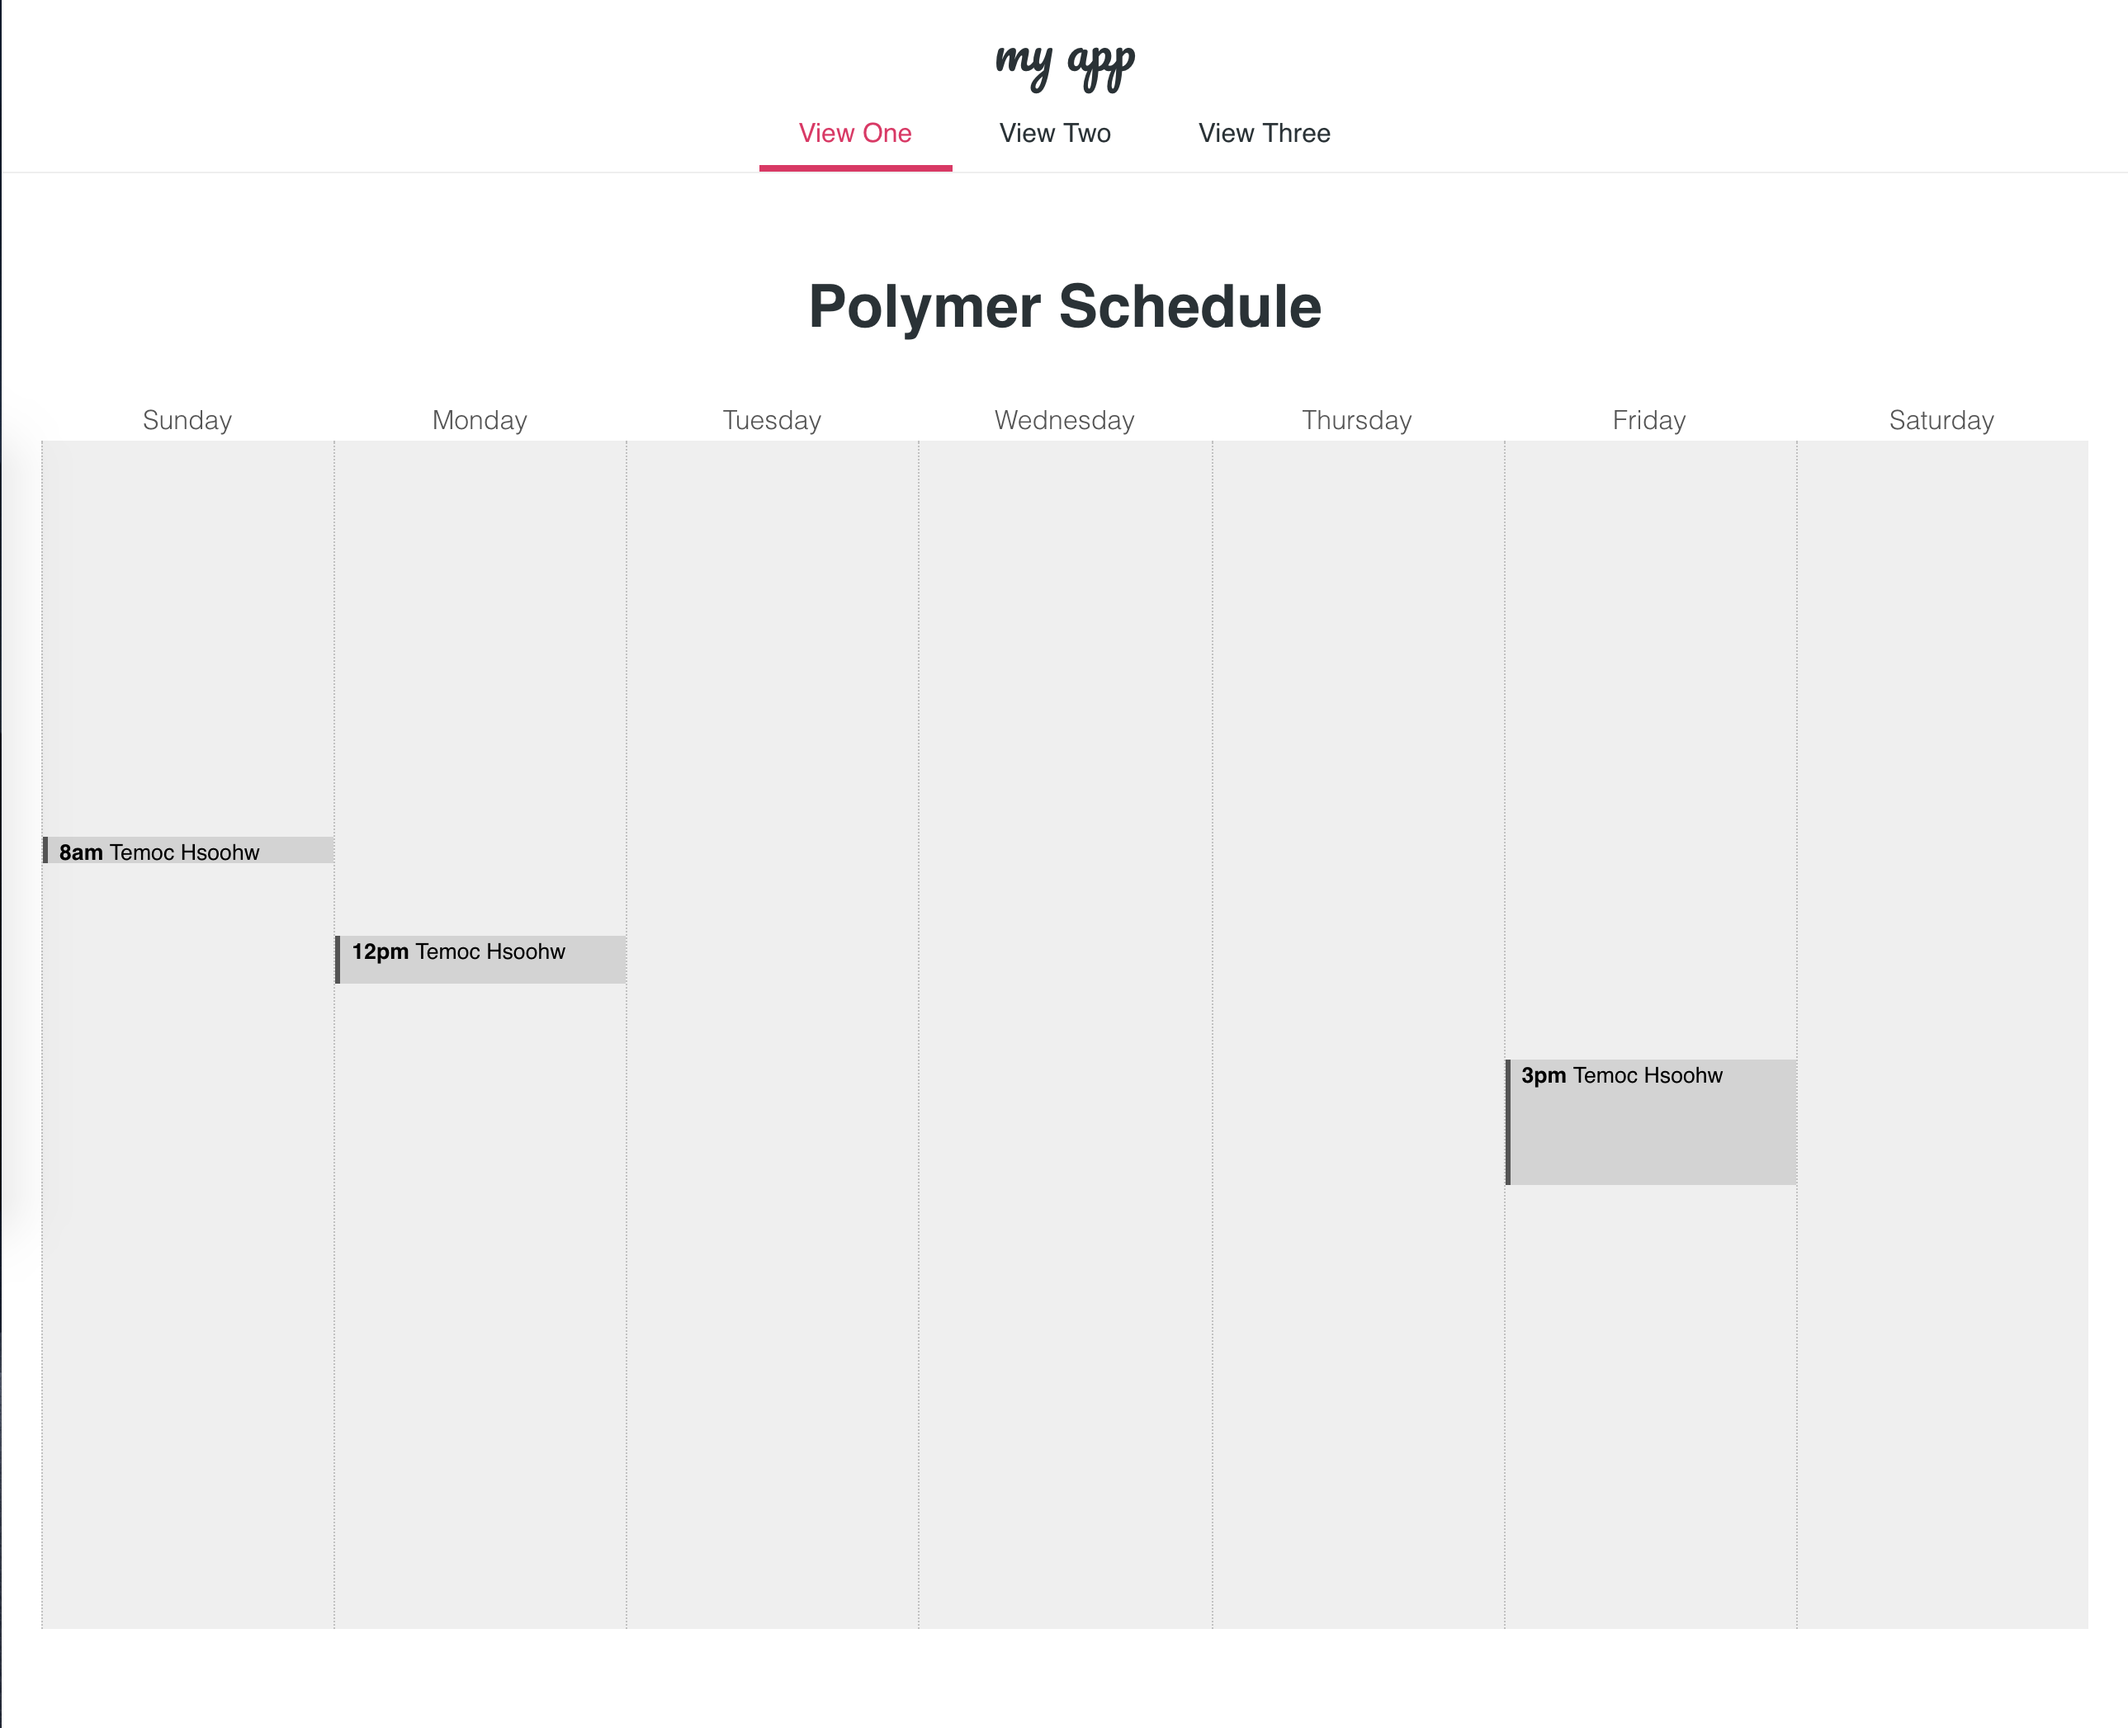
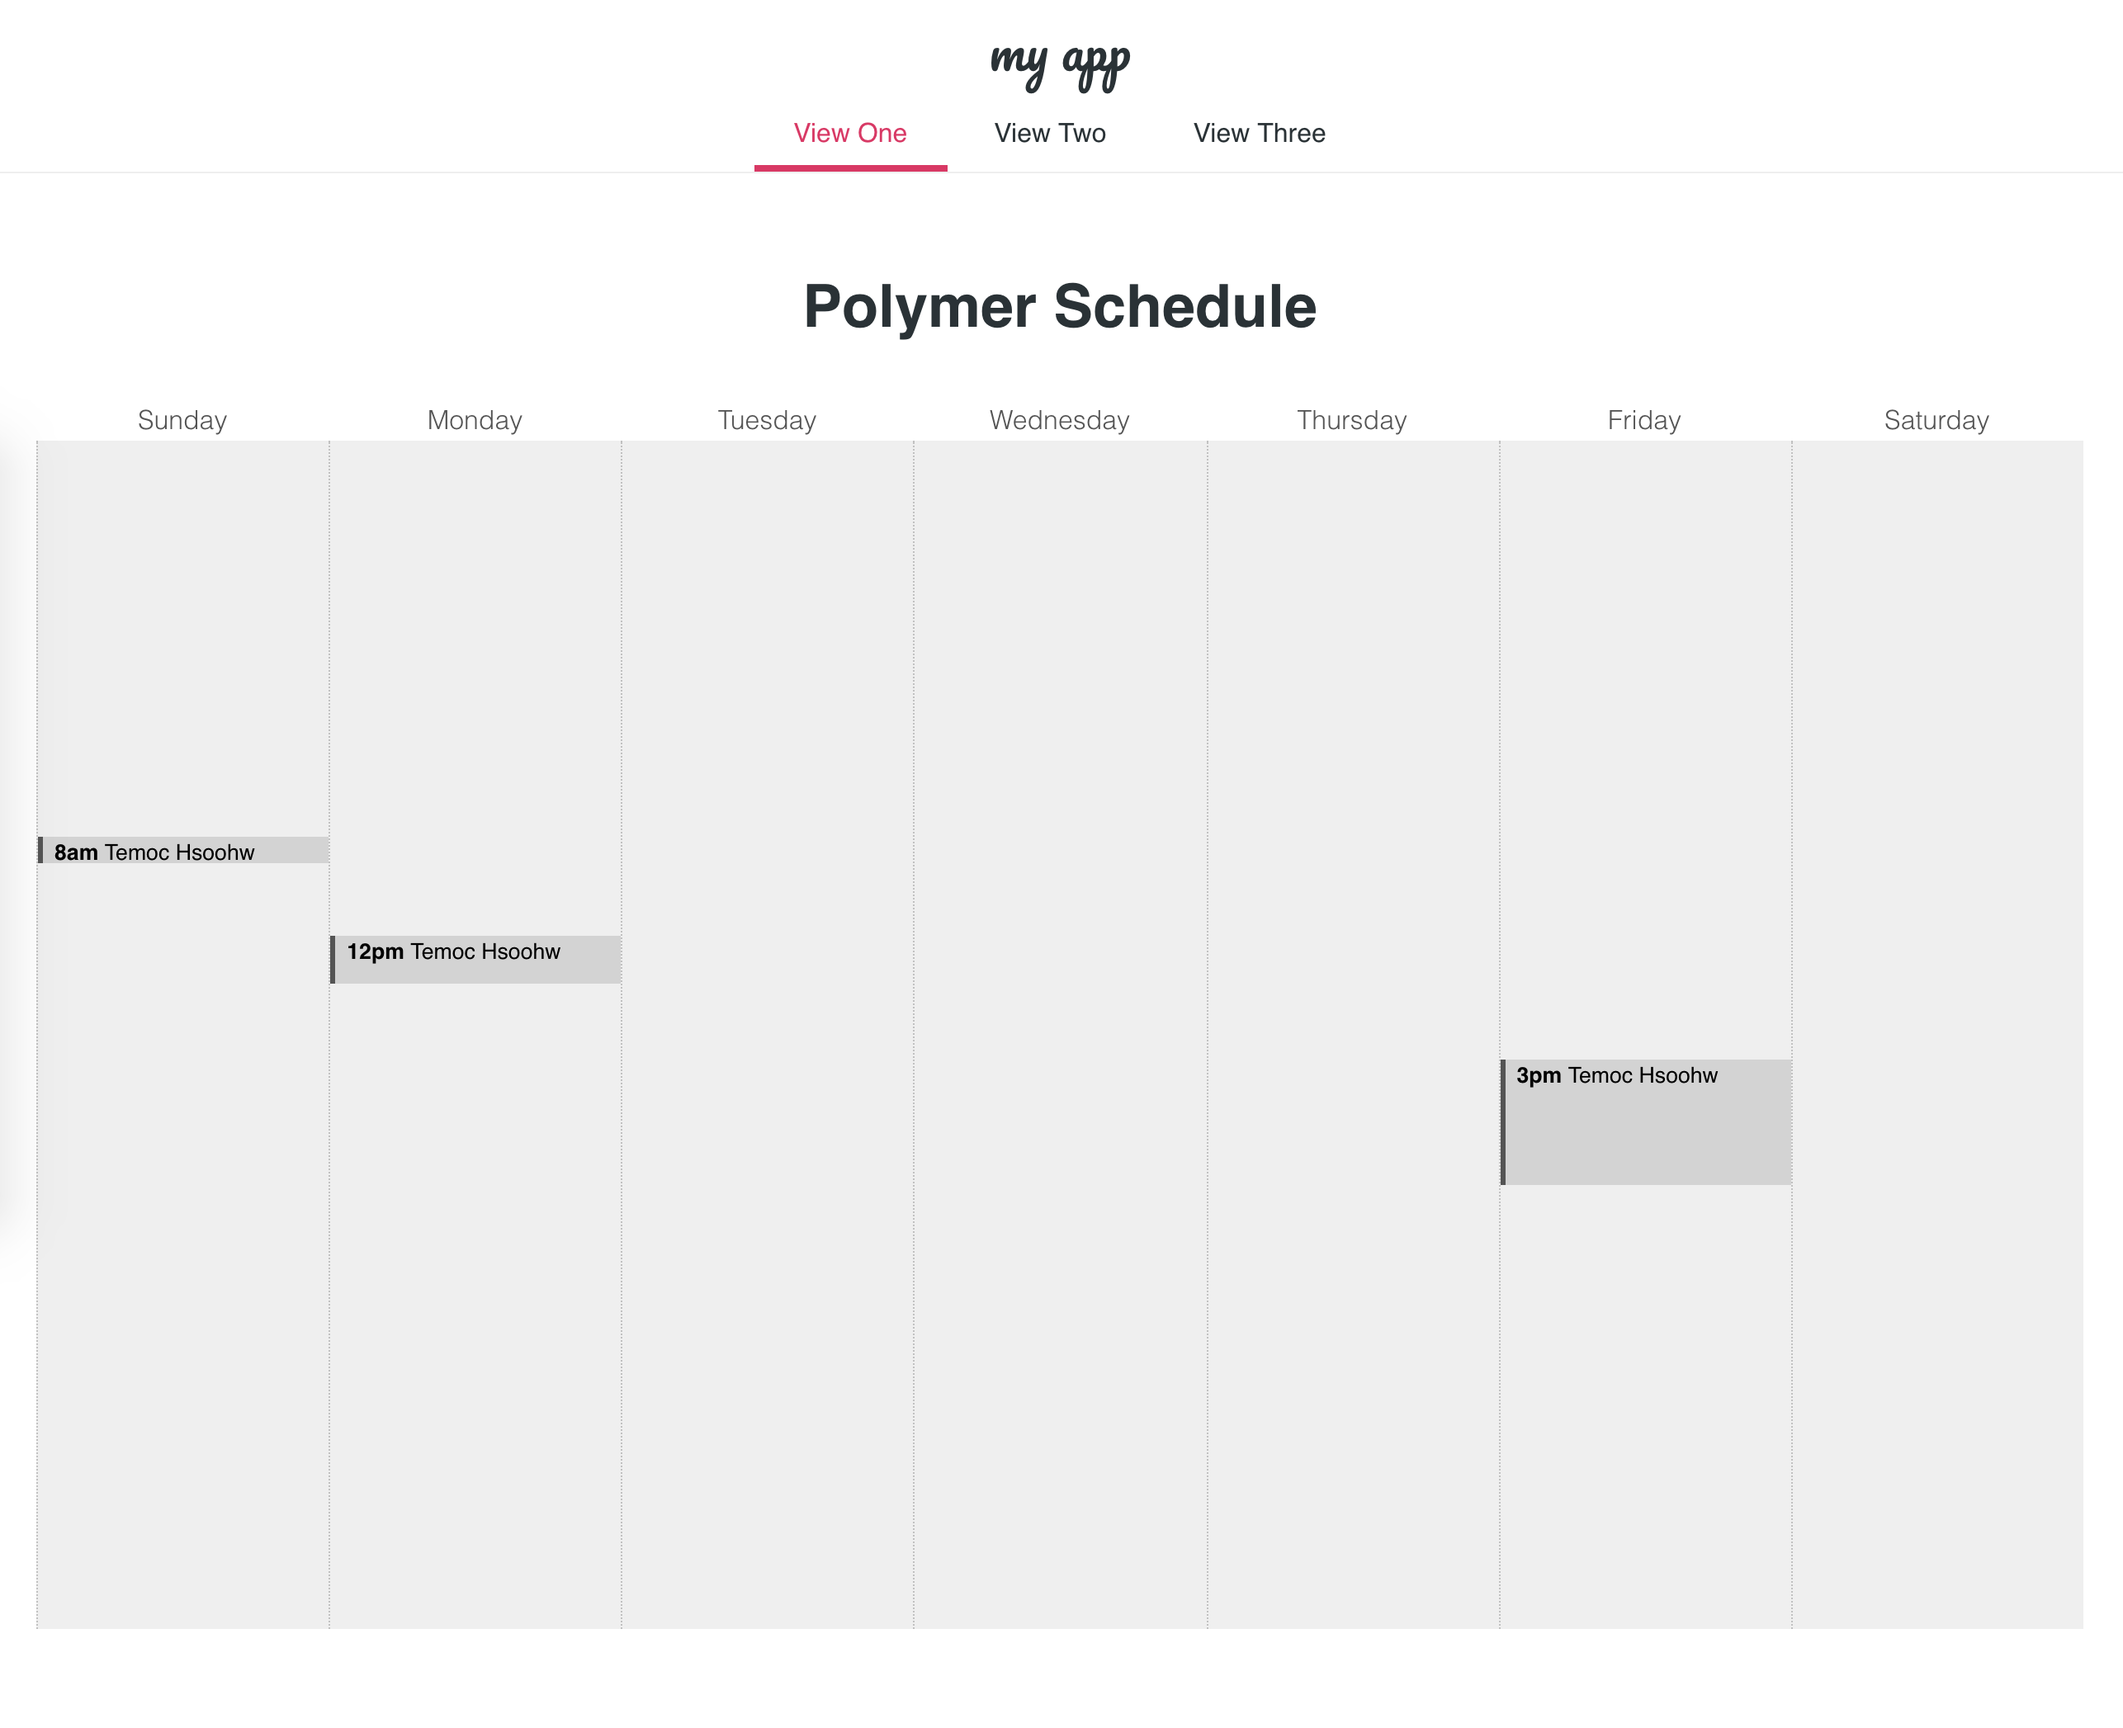
dynamic content via lit-html

diff --git a/src/components/polymer-schedule.js b/src/components/polymer-schedule.js
@@ -12,7 +12,7 @@ class PolymerSchedule extends LitElement {
         }
         div.day {
           flex-grow: 1;
-          min-width: 100px;
+          min-width: 150px;
         }
         div.time-slots {
           min-height: 720px;
@@ -40,7 +40,8 @@ class PolymerSchedule extends LitElement {
       </style>
 
       <div class="main">
-        <div class="day">
+        ${this.daysUI}
+        <!-- <div class="day">
           <span class="day-title">Sunday</span>
           <div class="time-slots">
             <div class="time-slot" style="height:9px;top:240px;">
@@ -83,13 +84,14 @@ class PolymerSchedule extends LitElement {
           <span class="day-title">Saturday</span>
           <div class="time-slots">
           </div>
-        </div>
+        </div> -->
       </div>
     `;
   }
 
   static get properties() {
     return {
+      daysUI: { type: Array },
       data: { type: Array }, // `value` key is useless
     }
   }
@@ -101,22 +103,54 @@ class PolymerSchedule extends LitElement {
     // 'id': String hash
     // 'week': Number between 1 and 52
     this.data = [
-      { day: 'sunday', items: [
-        { name: "Item 1", location: "", startTime: 800, endTime: 830, people: ["Temoc Hsoohw"], notes: "Hello world!" },
+      { day: 'sunday', events: [
+        { name: "Item 1", location: "", startTime: 730, endTime: 800, people: ["Temoc Hsoohw, Enarc"], notes: "Hello world!" },
       ] },
-      { day: 'monday', items: [
+      { day: 'monday', events: [
         { name: "Item 2", location: "Building C", startTime: 1200, endTime: 1315, people: ["Temoc Hsoohw"], notes: "" },
       ] },
-      { day: 'tuesday', items: [] },
-      { day: 'wednesday', items: [] },
-      { day: 'thursday', items: [] },
-      { day: 'friday', items: [
+      { day: 'tuesday', events: [] },
+      { day: 'wednesday', events: [] },
+      { day: 'thursday', events: [] },
+      { day: 'friday', events: [
         { name: "Item 3", location: "", startTime: 1500, endTime: 1805, people: ["Temoc Hsoohw"], notes: "" },
       ] },
-      { day: 'saturday', items: [] },
+      { day: 'saturday', events: [] },
     ];
+    this.daysUI = [];
 
-    
+    var firstStart = 2401;
+    var lastEnd = -1;
+    var scheduleHeight = 720;
+    this.data.forEach((day) => {
+      // TODO: sort event times here if needed
+      day.events.forEach((event) => {
+        if (event.startTime < firstStart) firstStart = event.startTime;
+        if (event.endTime > lastEnd) lastEnd = event.endTime;
+      });
+    });
+    if (firstStart % 100 != 0) firstStart = Math.floor(firstStart/100) * 100;
+    if (lastEnd % 100 != 0) lastEnd = Math.ceil(lastEnd/100) * 100;
+    var timeDiff = lastEnd - firstStart;
+
+    this.data.forEach((day) => {
+      var eventsUI = [];
+      day.events.forEach((event) => {
+        eventsUI.push(html`
+          <div class="time-slot" style="height:${(event.endTime-event.startTime)*(scheduleHeight/timeDiff)}px;top:${(event.startTime-firstStart)*(scheduleHeight/timeDiff)}px;">
+            <strong>${event.startTime}</strong> ${event.people} <!-- show title otherwise -->
+          </div>
+        `);
+      });
+      this.daysUI.push(html`
+        <div class="day">
+          <span class="day-title">${day.day}</span>
+          <div class="time-slots">
+            ${eventsUI}
+          </div>
+        </div>
+      `);
+    });
   }
 }
 

diff --git a/README.md b/README.md
@@ -8,12 +8,14 @@ Scheduling with polymer.
 
 ## TODO
 
-[ ] Integrate GET requests and loader
+- [ ] Integrate GET requests and loader
 
-[ ] Collapse into tabs
+- [ ] Collapse into tabs
 
-[ ] Dynamic height
+- [ ] Overlapping events
 
-[ ] Colors
+- [ ] Dynamic height
 
-[ ] Dialog card
+- [ ] Colors
+
+- [ ] Dialog card
